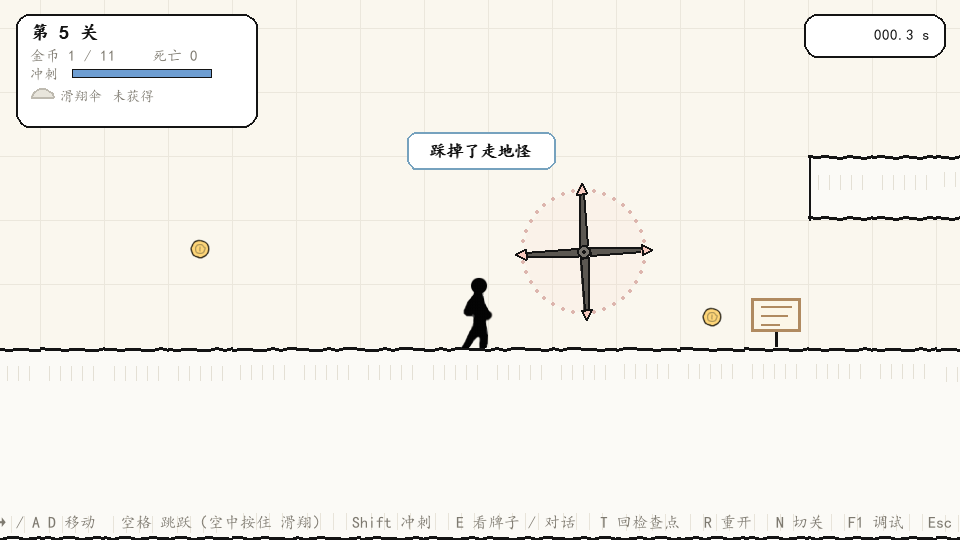
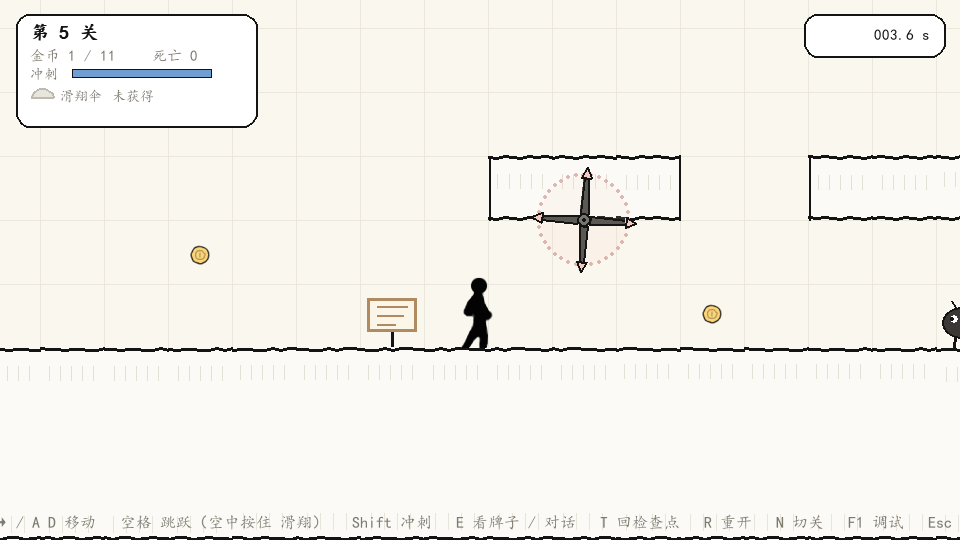
fix(M7.1): 旋转刺轮原来根本过不去，改成禁跳区 + 逆时针
问题（用户实测「根本过不去」）
- 轴心原本在 X 格格心，离站立头顶只有 26px。角色横穿 160px 时相对
  轴心转过 144°，而四臂每 90° 一条 —— 穷举 360 个起始相位，
  顺时针 0%、逆时针 0%，一个都过不去。跑过去那 0.53 秒里臂只转
  43°，等于人自己绕着风扇转了一圈。要让相位窗口成立，轴心得离
  头顶 400px 以上，已经在屏幕外。

改动
- config：ROTOR_ARM_LEN 58 → 42，ROTOR_SPEED 1.4 → 1.6，
  新增 ROTOR_SPIN = -1（屏幕逆时针：臂在画面底部与玩家前进同向，
  相对速度 300-67 而不是 300+67）
- world：刺轮轴心从格心抬到**格顶边**（吊在横梁下）
- 机关语义从「等窗口硬穿」改成**「禁跳区」**：臂端 626 < 站立头顶
  634（余量 8px），贴地横跑绝对安全；起跳 8px 就进刀口
- tools/gen_l5.py：刺轮上方加横梁；新增硬检查「臂端 < 站立头顶」
  与「上方必须有横梁」
- 告示牌重排为 3 块（走地怪 / 刀片 / 荡锤），刀片那块从刺轮右边
  移到**左边** —— 原来玩家读完牌子时已经过完机关了
- selftest：删掉「命中率 15%~85%」这类靠运气的断言，换成
  「贴地横穿 360 个相位全部安全」+「原地起跳 72 个相位全部被打下来」
  +「臂端严格高于头顶」+「逆时针」

验证
- 自检 266 → 270 项，3.11.9 + 海龟 3.6.5/pygame1.9.6 双环境全绿
- 环境体检 19 项全绿；碰撞压测 2 万帧穿模/瞬移 0
- l5 自动驾驶 13.4s 通关 0 死亡，刺轮段直接跑过

diff --git a/selftest.py b/selftest.py
@@ -1760,9 +1760,12 @@ def test_walker():
 
 
 def test_rotor():
-    _section(u"M7 旋转刺轮")
+    _section(u"M7 旋转刺轮（低空刀片，禁跳区）")
 
-    r = enemy.Rotor(1000.0, 600.0, phase=0.0)
+    FLOOR = 704.0
+    HEAD = FLOOR - player.Player.HEIGHT          # 站立头顶 634
+    r = enemy.Rotor(1000.0, 576.0, phase=0.0)    # 轴心取 X 格上沿
+
     arms = r.arms()
     _check(u"四臂等分", len(arms) == config.ROTOR_ARMS
            and abs(arms[1][0] - arms[0][0] - math.pi / 2) < 1e-6,
@@ -1771,6 +1774,60 @@ def test_rotor():
            all(abs(math.hypot(x - r.cx, y - r.cy) - config.ROTOR_ARM_LEN) < 0.01
                for _, x, y in arms),
            u"臂长 %.0f" % config.ROTOR_ARM_LEN)
+
+    # 几何不变式：这一条是这个机关"能不能通关"的唯一保证。
+    # 臂端一旦够到站立头顶，玩家贴着地跑也会被扫死，关卡直接不可通关。
+    arm_tip = r.cy + config.ROTOR_ARM_LEN + config.ROTOR_TIP_R
+    _check(u"臂端严格高于站立头顶（贴地跑不会被扫到）", arm_tip < HEAD,
+           u"臂端 %.0f / 头顶 %.0f，余量 %.0fpx" % (arm_tip, HEAD, HEAD - arm_tip))
+
+    # 全相位横穿：不是"运气好能过"，是 360 个相位一个都不该死
+    fails = 0
+    for k in range(360):
+        r.phase = math.radians(k)
+        r.reset()
+        x = r.cx - 90.0
+        ok = True
+        while x <= r.cx + 90.0:
+            r.update(DT)
+            if r.hits(pygame.Rect(int(x), int(HEAD), 26, player.Player.HEIGHT)):
+                ok = False
+                break
+            x += config.RUN_SPEED * DT
+        if not ok:
+            fails += 1
+    _check(u"贴地横穿 180px，360 个起始相位全部安全", fails == 0,
+           u"失败 %d 个相位" % fails)
+
+    # 但威胁必须是真的：在刀片下面起跳，会被打下来
+    jumped = hit_jump = 0
+    for k in range(72):
+        r.phase = math.radians(k * 5.0)
+        r.reset()
+        vy = config.JUMP_SPEED
+        y = HEAD
+        jumped += 1
+        for _ in range(90):
+            r.update(DT)
+            vy += (config.GRAVITY_UP if vy < 0.0 else config.GRAVITY_DOWN) * DT
+            y += vy * DT
+            if y > HEAD:
+                break
+            if r.hits(pygame.Rect(int(r.cx) - 13, int(y), 26,
+                                  player.Player.HEIGHT)):
+                hit_jump += 1
+                break
+    _check(u"原地起跳会被刀片打下来", hit_jump == jumped,
+           u"%d/%d 个相位" % (hit_jump, jumped))
+
+    # 判定必须"跟着角度走"，不能是一个固定的外接框
+    hop = pygame.Rect(int(r.cx) - 13, int(HEAD) - 40, 26, player.Player.HEIGHT)
+    r.angle = math.pi / 2
+    _check(u"臂朝下时命中跳到半空的人", r.hits(hop))
+    # 四臂十字没有"全水平"的形态，但转到 45° 时两条臂都斜在两侧，
+    # 正下方是空的 —— 这个空当必须真的能钻过去，否则就是个外接圆。
+    r.angle = math.pi / 4
+    _check(u"臂转到对角线时正下方让开", not r.hits(hop))
 
     # 远处的玩家永远安全
     far = pygame.Rect(2000, 600, 26, 70)
@@ -1781,26 +1838,12 @@ def test_rotor():
             hit_far += 1
     _check(u"离得远不会被扫到", hit_far == 0, u"%d 帧" % hit_far)
 
-    # 轴心正下方：既不能是必死（玩家没活路），也不能完全无害（等于装饰）
-    under = pygame.Rect(int(r.cx) - 13, 634, 26, 70)
+    # 逆时针：屏幕 y 向下，角度递减即视觉逆时针
     r.reset()
-    hit = 0
-    N = 900
-    for _ in range(N):
-        r.update(DT)
-        if r.hits(under):
-            hit += 1
-    ratio = hit / float(N)
-    _check(u"轴心下方是危险的但留得出窗口", 0.15 < ratio < 0.85,
-           u"命中 %.0f%%（安全窗口 %.2fs）"
-           % (ratio * 100, (1.0 - ratio) * 2 * math.pi / config.ROTOR_SPEED))
-
-    # 判定必须"跟着角度走"，不能是一个固定的外接框
-    r.angle = 0.0
-    side = pygame.Rect(int(r.cx) - 13, 634, 26, 70)
-    _check(u"臂正对下方时命中", r.hits(side))
-    r.angle = math.pi / 4
-    _check(u"臂转到对角线时让开", not r.hits(side))
+    a0 = r.angle
+    r.update(0.2)
+    _check(u"逆时针旋转", r.angle < a0,
+           u"%.3f → %.3f" % (a0, r.angle))
 
 
 def test_pendulum():
@@ -1939,16 +1982,33 @@ def test_m7_scene(app):
            scene.deaths == 1 and u"走地怪" in scene.last_death_cause,
            u"死亡 %d 次，原因「%s」" % (scene.deaths, scene.last_death_cause))
 
-    # ---- 刺轮扫死 ----
+    # ---- 刺轮：贴地跑过是安全的，跳起来才挨 ----
     scene.restart()
     rot = w.rotors[0]
-    scene.player.teleport(rot.cx - W * 0.5, 11 * config.TILE - H)
+    scene.player.teleport(rot.cx - 120 - W * 0.5, 11 * config.TILE - H)
     scene.invuln = 0.0
+    scene.override_axis = 1.0
     frames = 0
-    while not scene.deaths and frames < 400:
+    while scene.player.x < rot.cx + 70 and frames < 400:
         scene.update(DT)
         frames += 1
-    _check(u"站在刺轮下面会被扫死",
+    scene.override_axis = None
+    _check(u"贴地从刀片下方跑过去不会死", scene.deaths == 0,
+           u"%d 帧跑到 x=%.0f，死亡 %d 次：%s"
+           % (frames, scene.player.x, scene.deaths, scene.last_death_cause))
+
+    # 同一位置换成"跳着过"：这是它唯一该杀人的方式
+    scene.restart()
+    scene.player.teleport(rot.cx - W * 0.5, 11 * config.TILE - H)
+    scene.invuln = 0.0
+    scene.input.jump_pressed = True
+    scene.input.jump_held = True
+    frames = 0
+    while not scene.deaths and frames < 200:
+        scene.update(DT)
+        frames += 1
+    scene.input.jump_held = False
+    _check(u"在刀片下面起跳会被打下来",
            scene.deaths == 1 and u"刀片" in scene.last_death_cause,
            u"%d 帧（%.1fs）后死亡：「%s」"
            % (frames, frames * DT, scene.last_death_cause))

diff --git a/tools/gen_l5.py b/tools/gen_l5.py
@@ -32,6 +32,11 @@ RUN_SPEED = 300.0
 GLIDE_FALL = 120.0
 GLIDE_SPEED = 330.0
 
+# 与 config.py 同步（这里不 import config，避免拉起 pygame 初始化）
+PLAYER_H = 70           # player.Player.HEIGHT
+ROTOR_ARM = 42.0        # config.ROTOR_ARM_LEN
+ROTOR_TIP = 8           # config.ROTOR_TIP_R
+
 
 def build():
     grid = [["."] * W for _ in range(H)]
@@ -67,19 +72,22 @@ def build():
     for c in (7, 8, 9):
         put(c, 10, "Z")
 
-    # ---- 刺轮：等它扫过去 ----
+    # ---- 刺轮：吊在横梁下的低空刀片，贴着地面跑过，跳起来才挨 ----
+    for c in (15, 16, 17):
+        solid(c, 8)           # 横梁（刺轮的吊点就在 X 格顶边）
+    put(13, 10, "S")          # 告示牌 2：讲刀片（必须放在刺轮**左边**）
     put(16, 9, "X")
 
     # ---- 低矮通道：必须踩怪才能过（跳不过去）----
     for c in range(20, 28):
         solid(c, 8)           # 天花板
-    put(19, 10, "S")          # 告示牌 2
     for c in (22, 23, 24):
         put(c, 10, "Z")
 
     # ---- 荡锤：吊在横梁上 ----
     for c in range(29, 33):
         solid(c, 7)           # 横梁
+    put(28, 10, "S")          # 告示牌 3：讲荡锤（放在锤子左边）
     put(30, 8, "H")
 
     # ---- 滑翔段：伞浮在水面上方，跳出去才够得到 ----
@@ -193,11 +201,38 @@ def check(grid, floor):
                 if below is None or below > r + 1:
                     problems.append(u"走地怪 (%d,%d) 脚下没有地面" % (c + 1, r + 1))
 
-    # 6) 刺轮不能嵌在实心里
+    # 6) 刺轮：正上方必须是实心（吊点），且臂端要扫不到站立角色
+    def ground_row_of(c):
+        r = H - 1
+        while r >= 0 and grid[r][c] != "#":
+            r -= 1
+        if r < 0:
+            return None
+        while r - 1 >= 0 and grid[r - 1][c] == "#":
+            r -= 1
+        return r
+
     for r in range(H):
         for c in range(W):
-            if grid[r][c] == "X" and grid[r][c] == "#":
-                problems.append(u"刺轮 (%d,%d) 长在实心地形里" % (c + 1, r + 1))
+            if grid[r][c] != "X":
+                continue
+            if r == 0 or grid[r - 1][c] != "#":
+                problems.append(u"刺轮 (%d,%d) 上方没有横梁，刀片像凭空浮着"
+                                % (c + 1, r + 1))
+            g = ground_row_of(c)
+            if g is None:
+                problems.append(u"刺轮 (%d,%d) 下面没有地面，是空中机关"
+                                % (c + 1, r + 1))
+                continue
+            # 轴心在格子上沿；臂端 + 尖端判定圆必须严格高于站立头顶，
+            # 否则站着跑都会被扫死 —— 这关就不可通关了。
+            arm_tip = r * TILE + ROTOR_ARM + ROTOR_TIP
+            head_top = g * TILE - PLAYER_H
+            if arm_tip >= head_top:
+                problems.append(
+                    u"刺轮 (%d,%d) 臂端 %d 够到了站立头顶 %d："
+                    u"这关会变成必死，站着跑都过不去"
+                    % (c + 1, r + 1, arm_tip, head_top))
 
     # 7) 荡锤必须吊在东西上：吊点格子正上方要是实心
     for r in range(H):
@@ -265,10 +300,13 @@ def check(grid, floor):
     return problems, widest
 
 
+# 每个元素 = 一块牌子，页用 | 分隔。牌子按地图上 S 的出现顺序（从左到右）
+# 与这里一一对应，数量对不上 world 会直接报错。
 SIGN_TEXT = [
-    u"黑团子是走地怪：从头顶落下去能踩死它，撞到侧面会死。",
+    u"黑团子是走地怪：从头顶落下去能踩死它，撞到侧面会死。|"
     u"踩死之后它闪两下就没了——每只只死一次，别回头找它。",
-    u"刺轮转得不快：等一条臂扫过去，再一口气跑过轴心。",
+    u"刀片吊在横梁下面，扫得很低。|"
+    u"贴着地横跑过去绝对安全——但只要起跳，脚一离地就会被绞进去。",
     u"荡锤看那条虚线：锤子摆到最外侧，就是你的窗口。",
 ]
 
@@ -297,10 +335,8 @@ def render(grid, floor):
     out.append(u"")
     # 牌子的文本放在地图之后：注释行不参与地图，位置在这里无所谓，
     # 顺序必须与地图里 S 的出现顺序一致
-    for i in range(0, len(SIGN_TEXT), 2):
-        a = SIGN_TEXT[i]
-        b = SIGN_TEXT[i + 1] if i + 1 < len(SIGN_TEXT) else u""
-        out.append(u";!sign %s|%s" % (a, b))
+    for page in SIGN_TEXT:
+        out.append(u";!sign %s" % page)
     out.append(u"")
     return u"\n".join(out) + u"\n"
 

diff --git a/enemy.py b/enemy.py
@@ -549,14 +549,18 @@ class Walker(object):
 # ---------------------------------------------------------------- 旋转刺轮
 
 class Rotor(object):
-    """绕轴匀速转的十字刀片。
+    """吊在横梁下、绕轴逆时针转的十字刀片。
 
-    这是本作第一个"靠碰撞检测本身构成难度"的机关：它没有状态机，只有角度。
-    玩家要做的事情是**读懂转速**——四臂十字每过 90° 是一个窗口，
-    1.9rad/s 下窗口间隔 0.83 秒，够跑过去，但只要犹豫一步就得等下一轮。
+    这是本作第一个"靠碰撞检测本身构成难度"的机关，但它**不是**让你等窗口
+    硬穿的路障——那种设计在 300px/s 的角色速度下不成立（见 config 注释：
+    轴心贴近头顶时，人横穿一次等于绕轴心转 144°，怎么排相位都过不去）。
 
-    判定用"沿臂采样小圆"而不是画一个旋转的大判定框：外接圆会让四个角变成
-    隐形墙，玩家明明从臂缝里钻过去却被判死，那是最没道理的一种冤。
+    它做的是**禁跳区**：臂短到扫不到站立的角色（臂端 622+8 < 头顶 634），
+    贴着地面横跑一定安全；只要起跳，脚一离开地面就进刀口。
+    所以它惩罚的是"想抄近道"和"贪图头顶那枚金币"，而不是运气。
+
+    判定用"沿臂采样小圆"而不是一个大圆：外接圆会把四条臂之间的空隙
+    变成隐形墙，玩家从缝里钻过去还被判死，那是最没道理的一种冤。
     """
 
     def __init__(self, cx, cy, phase=0.0):
@@ -594,7 +598,9 @@ class Rotor(object):
 
     def update(self, dt, player=None):
         self.t += dt
-        self.angle = self.phase + self.t * config.ROTOR_SPEED
+        # 屏幕 y 轴向下，角度递减 = 视觉逆时针。逆时针时臂在底部与玩家
+        # 前进方向同向（相对速度 300-74），顺时针时是迎面（300+74）。
+        self.angle = self.phase + config.ROTOR_SPIN * self.t * config.ROTOR_SPEED
         return None
 
     def hitbox(self):

diff --git a/config.py b/config.py
@@ -193,15 +193,26 @@ STOMP_BOUNCE = 560.0
 STOMP_TOP_RATIO = 0.7
 
 # ---------- 旋转刺轮（M7 起使用） ----------
-# 四臂十字，臂长 58px（不到一格）：扫过的范围约 1.8 格直径，
-# 在一条通道里留得下"等一个窗口"的空间。
+# 四臂十字，吊在格子**上沿**（横梁底面）。臂长 46px 是算出来的，不是拍的：
+#
+# 轴心 y=576、臂长 42，臂端 618，加上尖端判定圆 8 得到 626；
+# 站立角色头顶在 634。所以刀片**扫不到站着的人**（留 8px 余量），
+# 但跳起来 8px 以上就会撞上。
+#
+# 为什么不能做成"横在通道里、等它转开再穿过去"——试过，物理上不成立：
+# 轴心离头顶只有 26px 时，角色横穿 160px 相当于绕轴心转了 **144°**，
+# 而四条臂每 90° 就有一条。角色跑过去的那 0.53 秒里臂只转 43°，
+# 等于"人自己绕着风扇转了一圈"。穷举 360 个起始相位，顺时针 0%、逆时针 0%，
+# 一个都过不去。要让相位窗口成立，轴心得离头顶 400px 以上，屏幕外了。
+#
+# 所以它改成了另一种机关：**禁跳区**。刀片下面横着跑绝对安全，
+# 想跳起来抄近道就会被打下来。旋转仍然有意义——它告诉你"上面有东西在动"。
 ROTOR_ARMS = 4
-ROTOR_ARM_LEN = 58.0
-# 1.4 rad/s ≈ 每 1.12 秒转过 90°。为什么不是更快：四臂十字在轴心正下方
-# 有约 55% 的时间是"某条臂正对着你"，玩家穿过 50px 的危险带只要 0.17 秒，
-# 真正决定难度的是**安全相位的绝对长度**——1.9rad/s 时只剩 0.37 秒，
-# 第一次见的人几乎必然要吃一次；1.4 给到 0.5 秒，看得懂也来得及。
-ROTOR_SPEED = 1.4
+ROTOR_ARM_LEN = 42.0
+ROTOR_SPEED = 1.6
+# 逆时针：臂在屏幕底部那一段与玩家前进方向同向，相对速度更小，
+# 视觉上是"让开你"，而不是迎着你的脸扫过来。
+ROTOR_SPIN = -1.0
 ROTOR_ARM_THICK = 8
 ROTOR_TIP_R = 8
 # 碰撞采样步长：臂上每隔 7px 取一个小圆，8px 一档能保证不漏判

diff --git a/world.py b/world.py
@@ -760,7 +760,9 @@ class World(object):
             self.walkers.append(
                 enemy.Walker(left, right, ground, phase=(0.37 * i) % 1.0))
         # M7：旋转刺轮与荡锤。相位按列号错开，免得一排机关同步得像节拍器。
-        self.rotors = [enemy.Rotor(c * tile + tile // 2, r * tile + tile // 2,
+        # 刺轮轴心取 X 格的**顶边**（和荡锤一样吊在梁底）：只有把轴心抬到
+        # 头顶以上，臂才能短到"站着扫不到、跳起来才挨"。
+        self.rotors = [enemy.Rotor(c * tile + tile // 2, r * tile,
                                    phase=((c * 0.53 + r * 0.29) % 2.0))
                        for c, r in parsed.rotors]
         # 荡锤的吊点取 H 格的**顶边**：地图里 H 必须写在横梁正下方，

diff --git a/README.md b/README.md
@@ -511,9 +511,11 @@
 - `Z` 按**同一行里连续写几格**决定巡逻范围（首格左沿 + 半个身位 ↔ 末格右沿 −
   半个身位），下方必须是实心地面。单格 `Z` 会自己来回走 ±24px。
   从**头顶**落下去能踩死它（脚底落在判定框上 70% 以内），侧面撞上去会死。
-- `X` 是刺轮的**轴心**，写在空气格里。臂长与转速是全局参数（58px / 1.4rad/s），
-  不随格子变——玩家背下来的节奏必须处处一致。判定不是外接圆，而是沿四条臂
-  每 7px 采样一个小圆：做成外接圆的话，四个臂缝会变成隐形墙。
+- `X` 是刺轮的**轴心格**，`X` 的**正上方必须是实心**（横梁）。轴心取该格**顶边**，
+  臂长 42px、逆时针 1.6rad/s。判定不是外接圆，而是沿四条臂每 7px 采样一个小圆：
+  做成外接圆的话，四个臂缝会变成隐形墙。
+  **臂端（含尖端 8px 判定）必须严格高于站立角色的头顶** —— 这是"这关能不能通关"
+  的唯一保证，生成器会算，差 1px 就报错。
 - `H` 是荡锤的**吊点格**，`H` 的**正上方必须是实心**（横梁）。吊点取该格顶边，
   摆长 148px、摆幅 ±54°、角频率 1.7rad/s。生成器会检查"上面有没有梁"。
 - `G` 可以写在半空：判定区是"整格宽 × 往上 3 格"的竖条，所以浮在离地 1~2 格
@@ -1165,8 +1167,10 @@ fallback），只能靠肉眼看出来 "金币怎么是个空心圈"。
 | 走地怪画法 | 素材包里没有走地怪，全部代码画：一个墨色团子 + 两条摆动的腿 + 两只朝行进方向的眼 + 两根小角。纸面手绘风里"实心墨团"是最容易一眼认出的形状，比硬塞一张卡通贴图更统一 |
 | 踩踏判定 | 三个条件：正在下落（`vy>0`）、判定盒相交、脚底落在判定框**上 70%** 以内。只判相交的话，从侧面擦上去也会被算成踩踏，表现为"人贴着怪死了一半又被弹起来"，比直接死更让人困惑 |
 | 踩踏反馈 | 玩家 `vy = -560`（比弹跳板的 980 低：踩怪是奖励一次跳，不是弹射器），怪物进入 `dying`：0.5 秒内**闪烁** 8 次并整体缩小，最后闪两下消失。死亡期 `hitbox()` 立刻返回 `None`，所以同一帧不会被判成"撞到怪" |
-| 旋转刺轮 | 四臂十字绕轴匀速转（1.4rad/s，一圈 4.5 秒）。判定是**沿臂每 7px 采样小圆 + 尖端圆**，不是外接圆——外接圆会让四条臂缝变成隐形墙，玩家明明从缝里钻过去却被判死 |
-| 刺轮的读法 | 扫掠范围画成"淡红圆 + 一圈虚线点"，让"它会转到哪"变成看得见的东西。转速定在 1.4 而不是 1.9：真正决定难度的是**安全相位的绝对长度**（1.9 时只剩 0.37 秒，第一次见的人几乎必吃一次） |
+| 旋转刺轮 | 四臂十字吊在横梁下、逆时针 1.6rad/s。判定是**沿臂每 7px 采样小圆 + 尖端圆**，不是外接圆——外接圆会让四条臂缝变成隐形墙，玩家明明从缝里钻过去却被判死 |
+| 刺轮为什么不能"等窗口穿过去" | 试过，物理上不成立：轴心离站立头顶只有 26px 时，角色横穿 160px 相当于绕轴心转了 **144°**，而四条臂每 90° 就有一条。跑过去那 0.53 秒里臂只转 43°——**人自己绕着风扇转了一圈**。穷举 360 个起始相位，顺时针 0%、逆时针 0%，一个都过不去。要让相位窗口成立，轴心得离头顶 400px 以上，已经在屏幕外了 |
+| 刺轮改成了什么 | **禁跳区**。轴心抬到横梁底（格顶边）、臂长收到 42px：臂端 626 < 站立头顶 634，留着 8px 余量，所以**贴地横跑绝对安全**；一跳起来脚离地 8px 就进刀口。它惩罚的是"想抄近道"和"贪图头顶那枚金币"，不是运气 |
+| 刺轮的转向 | 逆时针。屏幕 y 轴向下，角度递减即视觉逆时针；逆时针时臂在画面底部与玩家前进方向**同向**（相对速度 300−67），顺时针则是迎面（300+67）。同向时视觉上像"让开你"，而不是糊到脸上 |
 | 荡锤 | `H` 格顶边为吊点，摆长 148、摆幅 ±54°、角频率 1.7。摆角用**正弦**而不是真实单摆方程：真实单摆的周期随幅度变化，玩家背下来的节奏会漂；正弦摆的周期是常数，背一次永远对 |
 | 荡锤的高度 | 锤心最低落在离地 44px（扫腰腿），摆到外侧抬高到离地 105px（从头顶掠过）。"摆到最外侧就安全"必须真的能穿过去，否则玩家只能硬等 |
 | 移动机关与危险格分开 | 静态危险格烘焙在地形上、用矩形判定；刺轮/荡锤走 `mechanism_hit()`，判定是"沿臂采样"和"圆心距离"。合到 `hazard_at()` 里会让那张表看不出哪些格是常驻危险 |
@@ -1174,7 +1178,7 @@ fallback），只能靠肉眼看出来 "金币怎么是个空心圈"。
 | 死亡顺序 | 危险格 → 会动的机关 → 踩踏 → 敌人 → 篝火 → 金币 → 终点。踩踏必须判在"被敌人撞到"之前，否则踩中的那一帧会先被判死，玩家只会觉得"这怪根本踩不了" |
 
 **第 5 关（`levels/l5.txt`，66x14 格）**：起步牌子（教走地怪能踩）→ 开阔地的
-走地怪（可等可踩）→ 旋转刺轮（等一条臂扫过去）→ **1 格厚的低矮通道 + 里面一只
+走地怪（可等可踩）→ 旋转刺轮（横梁下的低空刀片，**贴着地跑过去，别跳**）→ **1 格厚的低矮通道 + 里面一只
 走地怪**（跳不过去，只能踩）→ 荡锤（吊在横梁上，看虚线找窗口）→ 两级台阶上高台
 → 2 格坑 → **半空中的滑翔伞 + 5 格水坑**（跳出去抓伞，再滑翔到对岸）→ 终点。
 由 `tools/gen_l5.py` 生成，检查项：矩形 / 图例 / 坑宽 / 台阶高差 / 走地怪落脚 /
@@ -1184,7 +1188,9 @@ fallback），只能靠肉眼看出来 "金币怎么是个空心圈"。
 - 走地怪移动范围可预测 —— 400 帧内 `x` 严格落在巡逻区间，两端都到过。
 - 踩踏的三个分支都对 —— 从上方落下 → 踩死 + 反弹 + 0 死亡；侧面撞上 → 死；闪烁期不再判死。
 - 踩死只生效一次 —— 第二次 `stomp()` 返回 `False`，0.5 秒后 `state == "gone"`。
-- 刺轮既能杀死人、也留得出窗口 —— 轴心正下方 900 帧内命中率 58%（安全相位 1.88 秒）；臂转到对角线时同一位置不再命中。
+- 刺轮是可通关的 —— 贴地横穿 180px，**360 个起始相位全部安全**（不是运气好）；但原地起跳 72 个相位 **100% 被打下来**，威胁是真的。
+- 刺轮的几何不变式 —— 臂端 626 严格小于站立头顶 634，余量 8px；生成器对每张地图都算一遍，差 1px 报错。
+- 刺轮逆时针 —— 角度随时间递减；臂在画面底部与玩家前进同向。
 - 荡锤真的在摆 —— 600 帧内锤心到吊点的距离偏差 < 0.01px，水平行程 241px、竖直 62px；正下方会命中但有安全相位。
 - 机关可重置 —— `R` 重开后走地怪全部复活、刺轮回到初始相位。
 - 第 5 关地形可通关 —— 关掉机关后用带前瞻的自动驾驶 13.4 秒跑到终点、0 死亡、9/11 金币。
@@ -1320,7 +1326,7 @@ README 是否需要更新：
 - [x] 新增 `docs/环境适配说明.md`（环境事实 + 5 个已修复问题 + 6 个潜伏问题 + 预防方案）与 `tools/envcheck.py`（18 项自检，全绿）；新增 `io_utils.py` 堵住 GBK 编码坑。
 - [x] M1～M5 全部完成并通过试玩：场景系统、手感（可变跳跃/土狼时间/跳跃缓冲/冲刺）、角色 8 帧动画、第一关、机关关（篝火/地刺/移动平台/弹跳板/单向平台）、滑翔伞与滑翔关。
 - [x] **M6 完成**：`enemy.py`（蝙蝠巡逻、UFO 投石、落石三态、天花板裂缝）、`dialog.py`（折行排版 + 暂停式对话框）、告示牌 `S` / NPC `N` / 蝙蝠 `B` / UFO `U` / 落石点 `R`，第 4 关 `l4.txt`（60×14）与 `tools/gen_l4.py`；自检 220 项双环境全绿。
-- [x] **M7 完成**：`enemy.py` 新增 `Walker`（可踩死）/ `Rotor`（旋转刺轮）/ `Pendulum`（荡锤）、新格子 `Z` `X` `H`、踩踏击杀与 `stomp_bounce`、`mechanism_hit`、第 5 关 `l5.txt`（66×14）与 `tools/gen_l5.py`（十条硬检查）；滑翔伞支持写在半空（`G` 的竖条判定 + 生成器可达性检查）；自检 266 项双环境全绿。
+- [x] **M7 完成**：`enemy.py` 新增 `Walker`（可踩死）/ `Rotor`（旋转刺轮）/ `Pendulum`（荡锤）、新格子 `Z` `X` `H`、踩踏击杀与 `stomp_bounce`、`mechanism_hit`、第 5 关 `l5.txt`（66×14）与 `tools/gen_l5.py`（十条硬检查）；滑翔伞支持写在半空（`G` 的竖条判定 + 生成器可达性检查）；自检 270 项双环境全绿。
 
 ### 推荐下一步
 
@@ -1510,3 +1516,4 @@ Thumbs.db
 | 2026-11-24 | **M5 收尾的两个判定修正**：① 道具拾取区改成"整格宽 × 3 格高"的竖条（`ITEM_CATCH_ROWS`）——原来 40x40 落在格子中心，玩家如果在道具前方起跳，正好从它头顶飞过去，滑翔伞是通关必需道具，"跳一下就漏捡"不可接受；② 终点判定新增 `goal_zone`（3 格高的竖条），`goal_rect` 仍用于画旗子——原判定只覆盖脚下那一格，一路蹦着跑的玩家会从旗子头顶飞过去，在关底外掉出地图（实测 l3 在 x=4249 掉死）。l3 右端加封口墙，杜绝跑出边界。自检 163 项双环境全绿，l3 自动驾驶 10.9 秒通关、0 死亡 |
 | 2026-11-24 | **M6 完成（敌人 · 落石 · 告示牌/NPC）**：新增 `enemy.py`（`Bat` 巡逻 + 5 帧翅膀动画、`Ufo` 6 格射程投石、`FallingRock` 预警→下落→碎屑三态、`RockSpawner` 天花板裂缝）与 `dialog.py`（像素宽折行、内容撑开高度、确定性手抖边框、气泡尾巴 + 虚线指向说话人）；`world` 新增 `B`/`U`/`R`/`S`/`N` 五种格子与 `;!sign` `;!npc` 注释指令（按出现顺序配对，数量不符直接报错）、`_bat_runs` 连续段合并、`enemy_hit`、`_update_focus` / `interact`、告示牌与 NPC 绘制、`E` 气泡提示；`GameScene` 接入 `E` 交互与**整局暂停**的对话框（物理/敌人/落石/计时全冻）、敌人致死（危险格 → 敌人 → 篝火 → 金币 → 终点的判定顺序）、提示条与按键提示的避让；`_draw_cell` 补画"下方临空"的底边线——M6 加了悬空天花板才暴露出岩板没有下边界。新增第 4 关 `levels/l4.txt`（60×14，2 蝙蝠 / 1 UFO / 3 落石点 / 3 牌子 / 1 NPC）与 `tools/gen_l4.py`（七条硬检查）；`main.py` 新增 `--smoke-m6`。自检 163 → 220 项双环境全绿；l4 纯渲染 3.66ms/帧（海龟环境余量 4.5 倍），带前瞻的自动驾驶 12.1 秒通关、0 死亡、7/11 金币 |
 | 2026-11-24 | **M7 完成（走地怪 · 旋转刺轮 · 荡锤 · 空中道具）**：`enemy.py` 新增 `Walker`（连续 `Z` 合并巡逻段、墨团子造型、踩踏后闪烁 0.5s 消失）、`Rotor`（四臂十字 1.4rad/s，沿臂每 7px 采样小圆判定 + 淡红扫掠圈）、`Pendulum`（正弦摆，摆长 148、±54°、`H` 格顶边为吊点且上方必须是横梁）；`world` 新增 `Z`/`X`/`H` 三种格子与 `_walker_runs`、`stomp()`、`mechanism_hit()`；`player` 新增 `stomp_bounce()`（-560，不占弹跳板冷却）与 `stomp_count`；`GameScene` 死亡顺序改为 危险格 → 机关 → 踩踏 → 敌人 → 篝火 → 金币 → 终点（踩踏必须判在"被敌人撞到"之前）；新增第 5 关 `levels/l5.txt`（66×14：走地怪 / 刺轮 / 低矮通道必踩怪 / 荡锤 / 水面上方的滑翔伞 + 5 格水坑）与`tools/gen_l5.py`（坑宽/台阶/落脚/吊点/伞可达性/滑翔射程十条检查）、`main.py --smoke-m7`。自检 220 → 266 项双环境全绿；l5 纯渲染 4.00ms/帧（海龟环境余量 4.2 倍），自动驾驶 13.4 秒通关 0 死亡，滑翔段 1.4 秒过坑 |
+| 2026-11-24 | **M7.1 修正：旋转刺轮原来根本过不去**。用户实测反馈「根本过不去」，查下来不是手速问题，是几何问题：轴心原本在 `X` 格**格心**（离站立头顶 26px），角色横穿 160px 时相对轴心转过 **144°**，而四臂每 90° 一条 —— 穷举 360 个起始相位，顺时针 0%、逆时针 0%，一个都过不去；跑过去那 0.53 秒里臂只转 43°，等于人自己绕着风扇转了一圈。改法：轴心从格心抬到**格顶边**（吊在横梁下）、臂长 58 → 42，臂端 626 < 站立头顶 634，留 8px 余量 —— 机关语义从「等窗口硬穿」改成**「禁跳区」**：贴地横跑绝对安全，一起跳就进刀口。同时按用户建议改成**逆时针**（臂在画面底部与前进同向，相对速度 300−67 而非 300+67）。`tools/gen_l5.py` 新增硬检查「臂端 < 站立头顶 + 上方必须有横梁」；告示牌重排为 3 块（走地怪 / 刀片 / 荡锤），刀片那块放在刺轮**左边**，原来在右边，玩家读完已经过完机关了。自检 266 → 270 项双环境全绿；自动驾驶 13.4s 通关 0 死亡，刺轮段直接跑过 |
